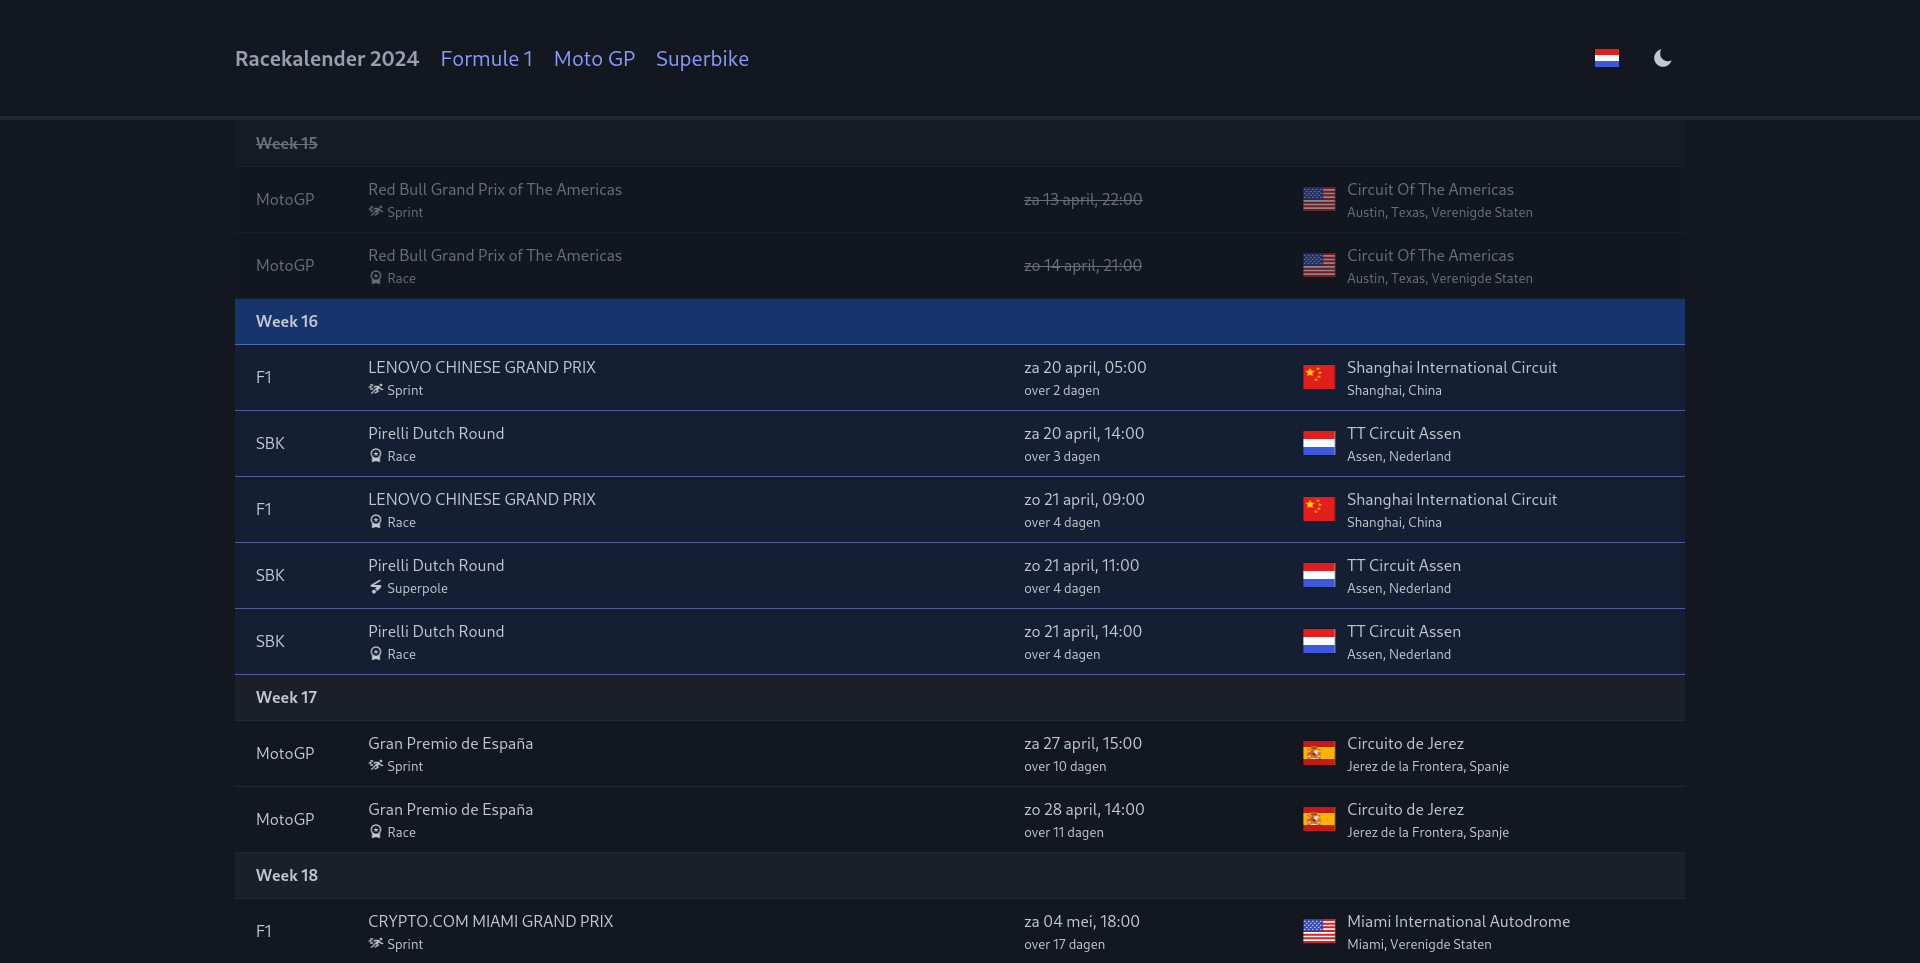
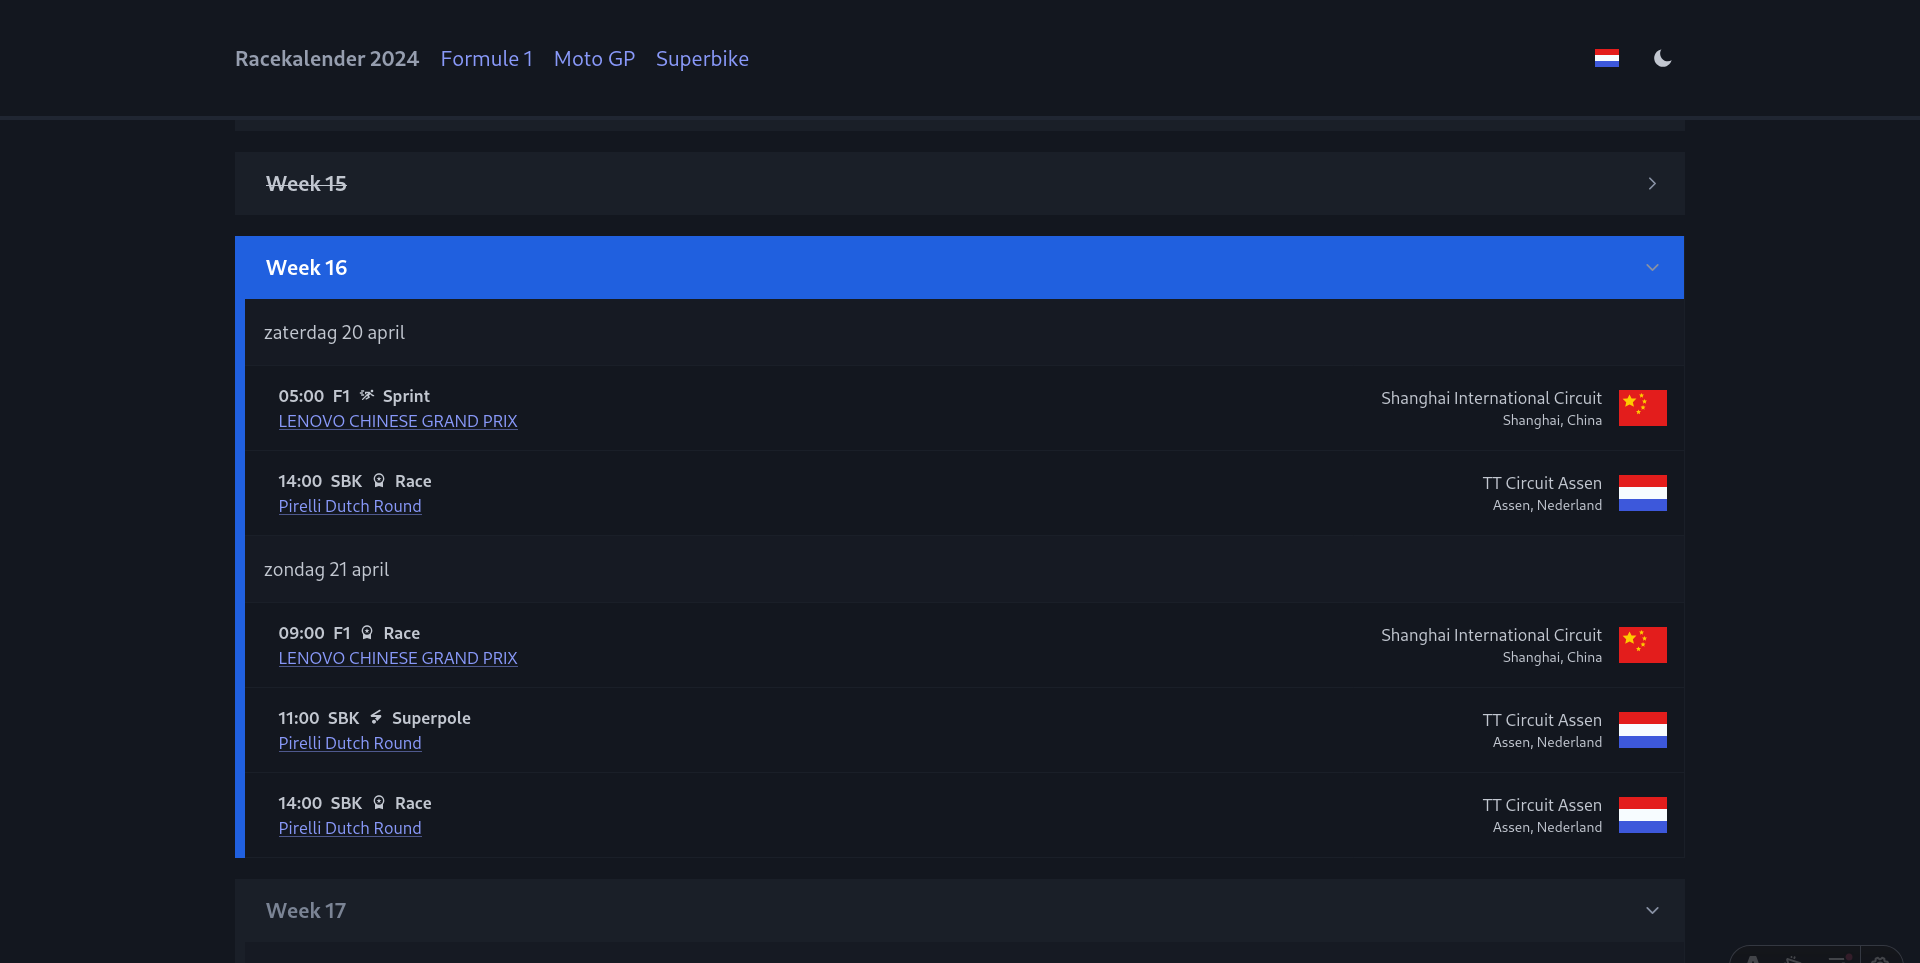
remove svelte in favor of vanilla js

diff --git a/README.md b/README.md
@@ -3,7 +3,6 @@
 Counting down the days until the next race!
 
 ![Astro 4.4](https://img.shields.io/badge/-Astro%204.4-black?style=for-the-badge&logo=Astro)
-![Svelte 4.2](https://img.shields.io/badge/-Svelte%204.2-black?style=for-the-badge&logo=Svelte)
[1 lines of base64/hex data omitted]
 ![Iconify 1.1](https://img.shields.io/badge/-Iconify%201.1-black?style=for-the-badge&logo=Iconify)
 ![Typescript 5.3](https://img.shields.io/badge/-TypeScript%205.3-black?style=for-the-badge&logo=TypeScript)
@@ -17,7 +16,7 @@ Counting down the days until the next race!
 **Tech info:**
 
 - All pages are statically generated (["SSG"](https://docs.astro.build/en/guides/routing/#static-ssg-mode)) into HTML files
-- Event date/times and distances are localized with [day.js](https://day.js.org/) in the browser, using [astro-islands](https://docs.astro.build/en/concepts/islands/) hydrating Svelte components
+- Event date/times and distances are localized with [Intl.DateTimeFormat](https://developer.mozilla.org/en-US/docs/Web/JavaScript/Reference/Global_Objects/Intl/DateTimeFormat) in the browser
 
 ## Screenshots
 
